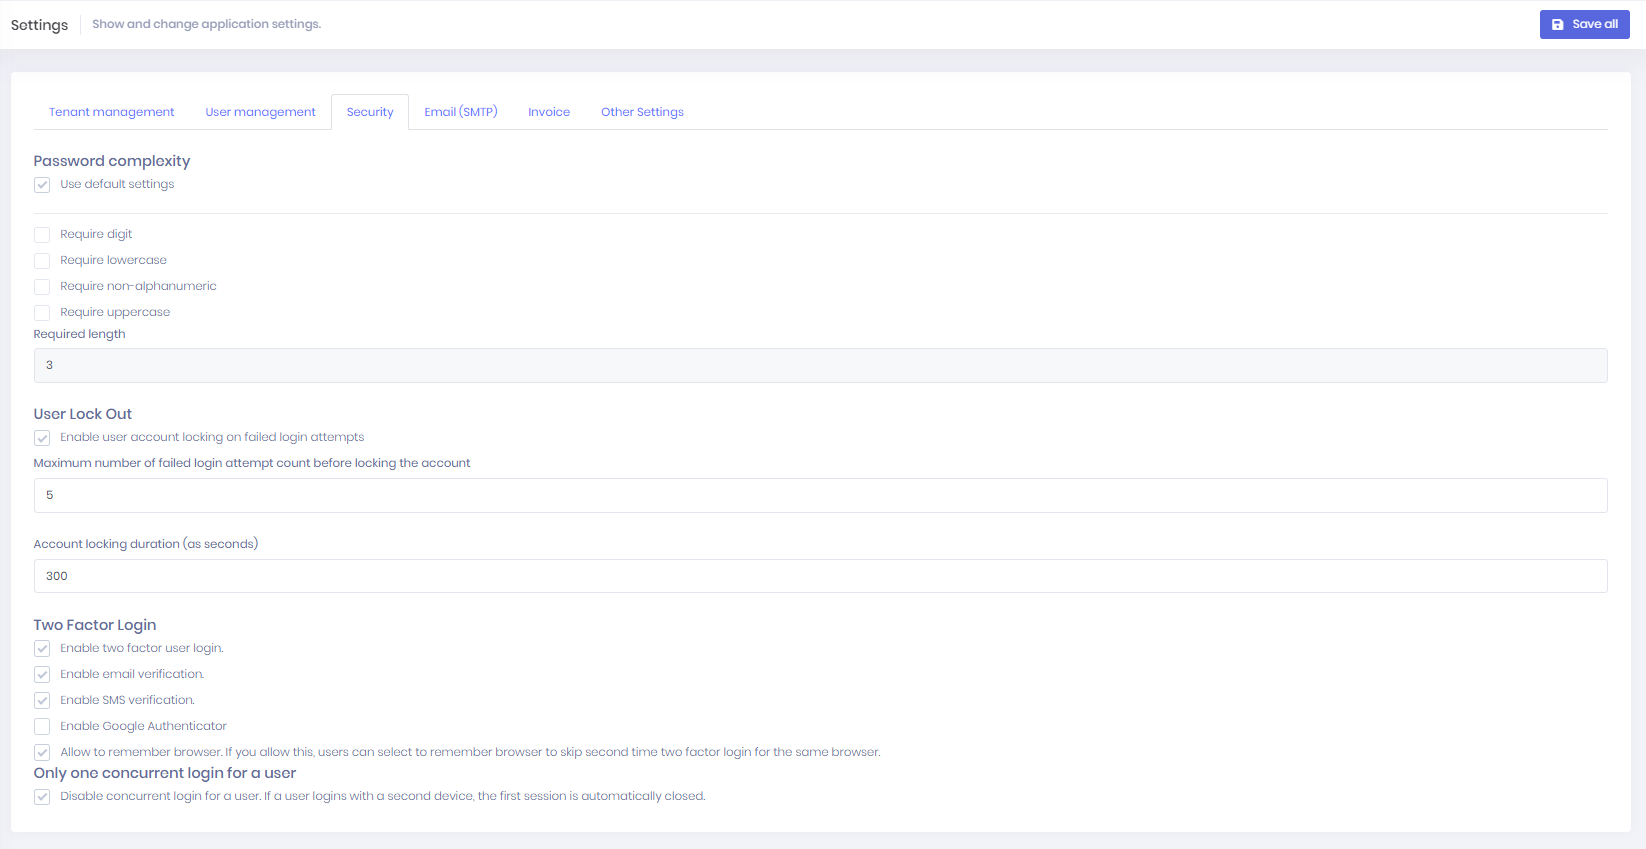
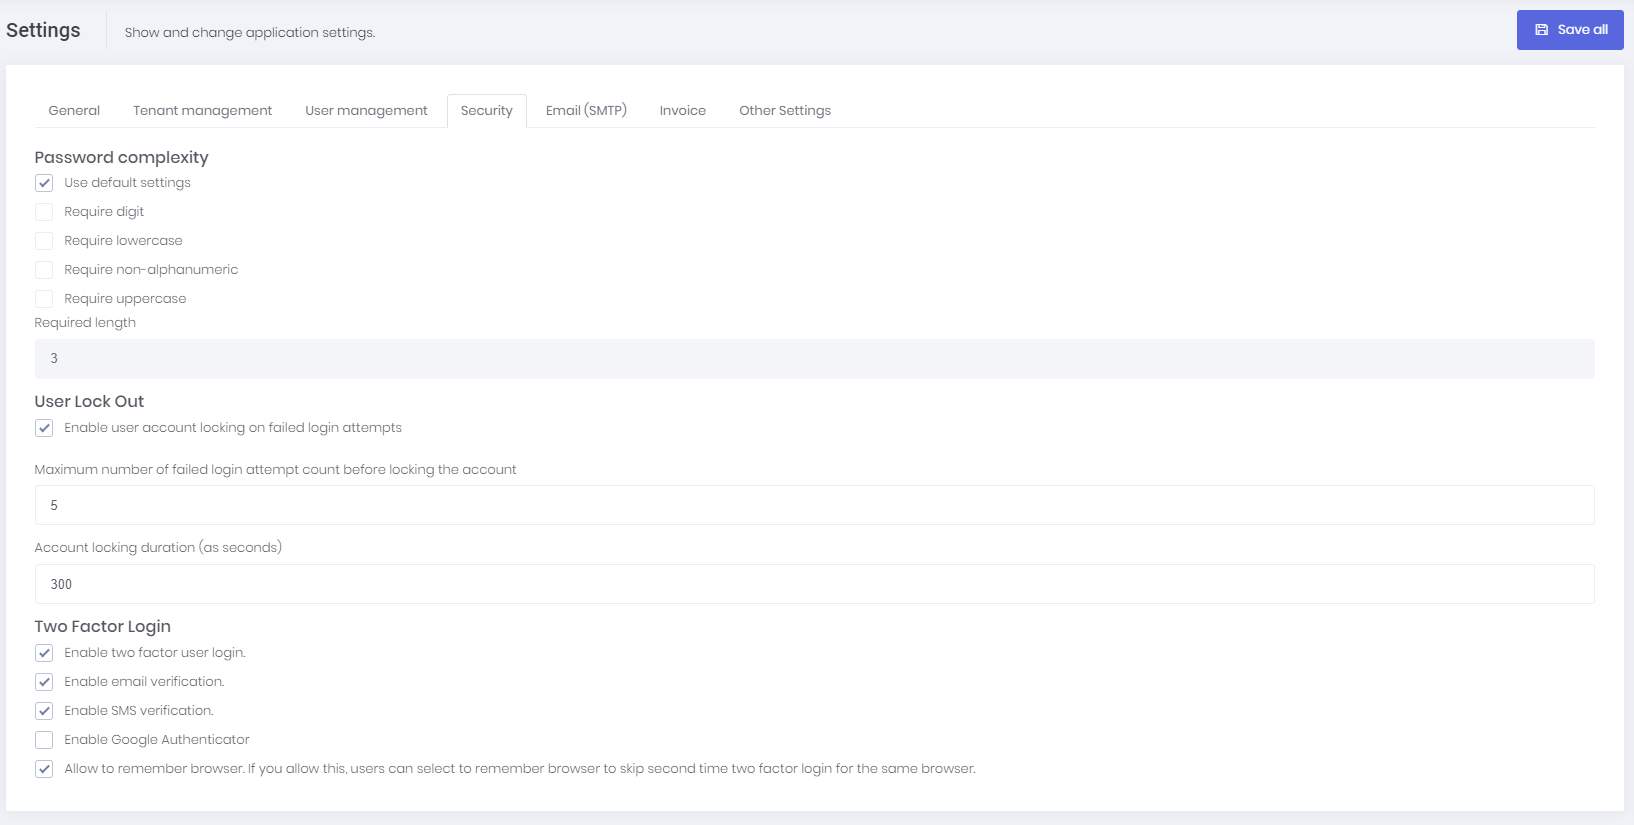
Updated images for host settings security section

diff --git a/docs/en/Features-Angular-Host-Settings.md b/docs/en/Features-Angular-Host-Settings.md
@@ -33,7 +33,7 @@ User related settings can be configured under this tab. You can force email conf
 
 ## Security
 
-<img src="images/host-settings-security-4.png" alt="Security Settings" class="img-thumbnail" />
+<img src="images/host-settings-security-5.png" alt="Security Settings" class="img-thumbnail" />
 
 **Security** tab in host settings page contains password complexity settings. Host can define system wide password complexity settings in this tab. Each tenant can override this setting in tenant settings page. 
 

diff --git a/docs/en/Features-Mvc-Core-Host-Settings.md b/docs/en/Features-Mvc-Core-Host-Settings.md
@@ -33,7 +33,7 @@ User related settings can be configured under this tab. You can force email conf
 
 ## Security
 
-<img src="images/host-settings-security-4.png" alt="Security Settings" class="img-thumbnail" />
+<img src="images/host-settings-security-5.png" alt="Security Settings" class="img-thumbnail" />
 
 **Security** tab in host settings page contains password complexity settings. Host can define system wide password complexity settings in this tab. Each tenant can override this setting in tenant settings page. 
 
